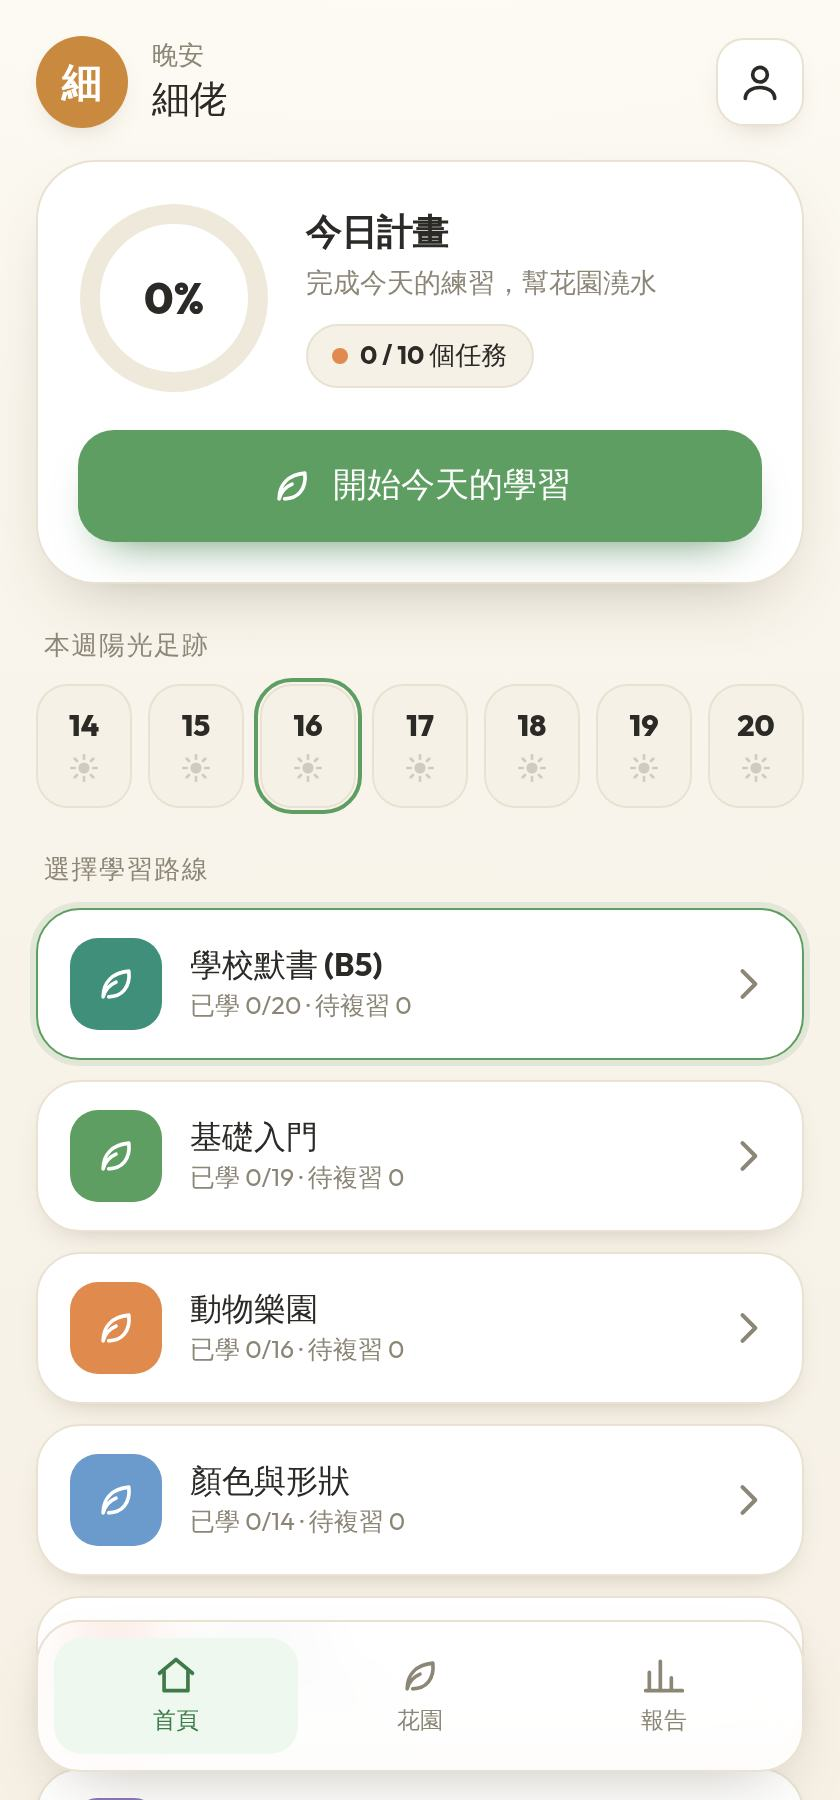
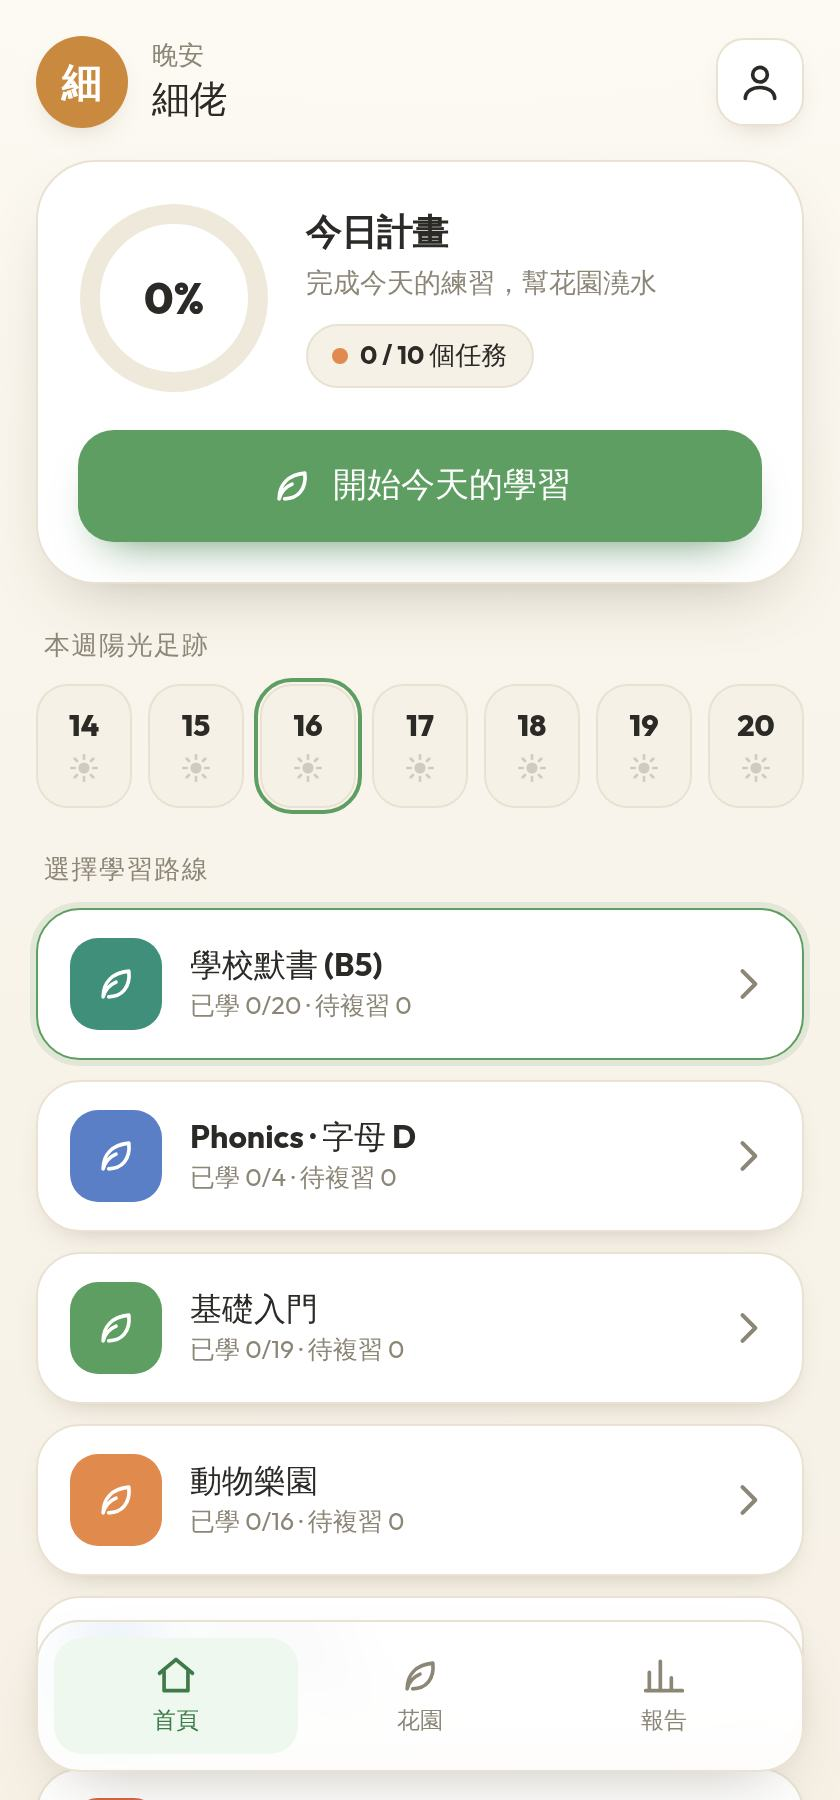
加入 B5 課本全系列: Phonics D/J/Z/L + Unit1-5 + 動物/城鎮/美食/地方 (共19路線) — SW v5

Changed region(s): [[0.0619, 0.5911, 0.4952, 0.7778], [0.0619, 0.8089, 0.4643, 0.8711], [0.0929, 0.9956, 0.1857, 1.0]]

diff --git a/js/data.js b/js/data.js
@@ -4,7 +4,7 @@
 export const DECKS = [
   {
     id: "school-b5",
-    name: "學校默書 (B5)",
+    name: "B5 默書清單",
     desc: "Spelling Check List · Unit 1–5",
     color: "#3f8f7a",
     words: [
@@ -30,10 +30,12 @@ export const DECKS = [
       { en: "knife", zh: "刀", pic: "🔪", ipa: "/naɪf/" }
     ]
   },
+
+  /* ---------- Phonics 字母 ---------- */
   {
     id: "phonics-d",
     name: "Phonics · 字母 D",
-    desc: "Phonics worksheet · D d",
+    desc: "D d — doctor / duck / doll / door",
     color: "#5b7fc7",
     words: [
       { en: "doctor", zh: "醫生", pic: "🧑⚕", ipa: "/ˈdɑːk.tɚ/" },
@@ -42,6 +44,162 @@ export const DECKS = [
       { en: "door", zh: "門", pic: "🚪", ipa: "/dɔːr/" }
     ]
   },
+  {
+    id: "phonics-j",
+    name: "Phonics · 字母 J",
+    desc: "J j — jellyfish / jacket / joker / jelly",
+    color: "#5b7fc7",
+    words: [
+      { en: "jellyfish", zh: "水母", pic: "🪼", ipa: "/ˈdʒel.i.fɪʃ/" },
+      { en: "jacket", zh: "外套", pic: "🧥", ipa: "/ˈdʒæk.ɪt/" },
+      { en: "joker", zh: "小丑", pic: "🃏", ipa: "/ˈdʒoʊ.kɚ/" },
+      { en: "jelly", zh: "啫喱", pic: "🍮", ipa: "/ˈdʒel.i/" }
+    ]
+  },
+  {
+    id: "phonics-z",
+    name: "Phonics · 字母 Z",
+    desc: "Z z — zero / zip / zigzag / zebra",
+    color: "#5b7fc7",
+    words: [
+      { en: "zero", zh: "零", pic: "0⃣", ipa: "/ˈzɪr.oʊ/" },
+      { en: "zip", zh: "拉鏈", pic: "🤐", ipa: "/zɪp/" },
+      { en: "zigzag", zh: "之字形", pic: "〰", ipa: "/ˈzɪɡ.zæɡ/" },
+      { en: "zebra", zh: "斑馬", pic: "🦓", ipa: "/ˈziː.brə/" }
+    ]
+  },
+  {
+    id: "phonics-l",
+    name: "Phonics · 字母 L",
+    desc: "L l — lemon / leaf / lamp / lip",
+    color: "#5b7fc7",
+    words: [
+      { en: "lemon", zh: "檸檬", pic: "🍋", ipa: "/ˈlem.ən/" },
+      { en: "leaf", zh: "葉", pic: "🍃", ipa: "/liːf/" },
+      { en: "lamp", zh: "燈", pic: "💡", ipa: "/læmp/" },
+      { en: "lip", zh: "嘴唇", pic: "👄", ipa: "/lɪp/" }
+    ]
+  },
+
+  /* ---------- B5 單元 ---------- */
+  {
+    id: "b5-u1",
+    name: "B5 Unit 1 · 文具",
+    desc: "School Stationery",
+    color: "#c98a3f",
+    words: [
+      { en: "eraser", zh: "擦膠", pic: "🧽", ipa: "/ɪˈreɪ.sɚ/" },
+      { en: "pencil", zh: "鉛筆", pic: "✏", ipa: "/ˈpen.səl/" },
+      { en: "crayons", zh: "蠟筆", pic: "🖍", ipa: "/ˈkreɪ.ɑːnz/" },
+      { en: "ruler", zh: "尺子", pic: "📏", ipa: "/ˈruː.lɚ/" }
+    ]
+  },
+  {
+    id: "b5-u2",
+    name: "B5 Unit 2 · 天氣",
+    desc: "Weather",
+    color: "#c98a3f",
+    words: [
+      { en: "dry", zh: "乾的", pic: "🏜", ipa: "/draɪ/" },
+      { en: "wet", zh: "濕的", pic: "💦", ipa: "/wet/" },
+      { en: "sky", zh: "天空", pic: "🌤", ipa: "/skaɪ/" }
+    ]
+  },
+  {
+    id: "b5-u3",
+    name: "B5 Unit 3 · 電子用品",
+    desc: "Electronics",
+    color: "#c98a3f",
+    words: [
+      { en: "computer", zh: "電腦", pic: "💻", ipa: "/kəmˈpjuː.t̬ɚ/" },
+      { en: "mobile", zh: "手提電話", pic: "📱", ipa: "/ˈmoʊ.bəl/" },
+      { en: "clock", zh: "時鐘", pic: "🕐", ipa: "/klɑːk/" }
+    ]
+  },
+  {
+    id: "b5-u4",
+    name: "B5 Unit 4 · 天氣",
+    desc: "Weather",
+    color: "#c98a3f",
+    words: [
+      { en: "cloudy", zh: "多雲", pic: "☁", ipa: "/ˈklaʊ.di/" },
+      { en: "windy", zh: "大風", pic: "🌬", ipa: "/ˈwɪn.di/" },
+      { en: "rainy", zh: "下雨", pic: "🌧", ipa: "/ˈreɪ.ni/" },
+      { en: "sunny", zh: "晴天", pic: "🌞", ipa: "/ˈsʌn.i/" }
+    ]
+  },
+  {
+    id: "b5-u5",
+    name: "B5 Unit 5 · 地方與學校",
+    desc: "Places & School",
+    color: "#c98a3f",
+    words: [
+      { en: "toilet", zh: "洗手間", pic: "🚻", ipa: "/ˈtɔɪ.lɪt/" },
+      { en: "shop", zh: "商店", pic: "🏪", ipa: "/ʃɑːp/" },
+      { en: "uniform", zh: "校服", pic: "👔", ipa: "/ˈjuː.nə.fɔːrm/" },
+      { en: "class", zh: "班房", pic: "🧑🎓", ipa: "/klæs/" }
+    ]
+  },
+  {
+    id: "b5-animals",
+    name: "B5 · 動物 Amazing Animals",
+    desc: "Unit 4 Amazing Animals",
+    color: "#3f8f7a",
+    words: [
+      { en: "crocodile", zh: "鱷魚", pic: "🐊", ipa: "/ˈkrɑː.kə.daɪl/" },
+      { en: "giraffe", zh: "長頸鹿", pic: "🦒", ipa: "/dʒəˈræf/" },
+      { en: "monkey", zh: "猴子", pic: "🐒", ipa: "/ˈmʌŋ.ki/" },
+      { en: "zebra", zh: "斑馬", pic: "🦓", ipa: "/ˈziː.brə/" },
+      { en: "elephant", zh: "大象", pic: "🐘", ipa: "/ˈel.ə.fənt/" },
+      { en: "lion", zh: "獅子", pic: "🦁", ipa: "/ˈlaɪ.ən/" }
+    ]
+  },
+  {
+    id: "b5-town",
+    name: "B5 · 城鎮 Going into Town",
+    desc: "Unit 5 Going into Town",
+    color: "#6a9bcc",
+    words: [
+      { en: "hospital", zh: "醫院", pic: "🏥", ipa: "/ˈhɑː.spɪ.t̬əl/" },
+      { en: "library", zh: "圖書館", pic: "📚", ipa: "/ˈlaɪ.brer.i/" },
+      { en: "park", zh: "公園", pic: "🏞", ipa: "/pɑːrk/" },
+      { en: "restaurant", zh: "餐廳", pic: "🍽", ipa: "/ˈres.tə.rɑːnt/" },
+      { en: "school", zh: "學校", pic: "🏫", ipa: "/skuːl/" },
+      { en: "supermarket", zh: "超級市場", pic: "🛒", ipa: "/ˈsuː.pɚ.mɑːr.kɪt/" }
+    ]
+  },
+  {
+    id: "b5-food",
+    name: "B5 · 世界美食 Food around the World",
+    desc: "It's a Fun World",
+    color: "#d9663f",
+    words: [
+      { en: "curry", zh: "咖喱", pic: "🍛", ipa: "/ˈkɝː.i/" },
+      { en: "sushi", zh: "壽司", pic: "🍣", ipa: "/ˈsuː.ʃi/" },
+      { en: "hamburger", zh: "漢堡", pic: "🍔", ipa: "/ˈhæm.bɝː.ɡɚ/" },
+      { en: "pizza", zh: "薄餅", pic: "🍕", ipa: "/ˈpiːt.sə/" },
+      { en: "taco", zh: "墨西哥卷", pic: "🌮", ipa: "/ˈtɑː.koʊ/" },
+      { en: "fish and chips", zh: "炸魚薯條", pic: "🐟🍟", ipa: "/ˌfɪʃ ən ˈtʃɪps/" },
+      { en: "fork", zh: "叉", pic: "🍴", ipa: "/fɔːrk/" },
+      { en: "knife", zh: "刀", pic: "🔪", ipa: "/naɪf/" },
+      { en: "spoon", zh: "匙羹", pic: "🥄", ipa: "/spuːn/" },
+      { en: "chopsticks", zh: "筷子", pic: "🥢", ipa: "/ˈtʃɑːp.stɪks/" }
+    ]
+  },
+  {
+    id: "b5-places",
+    name: "B5 · 地方 Macao & China",
+    desc: "It's a Fun World",
+    color: "#6a9bcc",
+    words: [
+      { en: "Macao", zh: "澳門", pic: "🇲🇴", ipa: "/məˈkaʊ/" },
+      { en: "China", zh: "中國", pic: "🇨🇳", ipa: "/ˈtʃaɪ.nə/" },
+      { en: "flag", zh: "旗", pic: "🚩", ipa: "/flæɡ/" },
+      { en: "map", zh: "地圖", pic: "🗺", ipa: "/mæp/" }
+    ]
+  },
+
+  /* ---------- 通用 ---------- */
   {
     id: "starter",
     name: "基礎入門",
@@ -80,7 +238,6 @@ export const DECKS = [
       { en: "duck", zh: "鴨", pic: "🦆", ipa: "/dʌk/" },
       { en: "frog", zh: "青蛙", pic: "🐸", ipa: "/frɔːɡ/" },
       { en: "horse", zh: "馬", pic: "🐴", ipa: "/hɔːrs/" },
-      { en: "monkey", zh: "猴子", pic: "🐒", ipa: "/ˈmʌŋ.ki/" },
       { en: "panda", zh: "熊貓", pic: "🐼", ipa: "/ˈpæn.də/" },
       { en: "pig", zh: "豬", pic: "🐷", ipa: "/pɪɡ/" },
       { en: "rabbit", zh: "兔子", pic: "🐰", ipa: "/ˈræb.ɪt/" },
@@ -89,7 +246,6 @@ export const DECKS = [
       { en: "tiger", zh: "老虎", pic: "🐯", ipa: "/ˈtaɪ.ɡɚ/" },
       { en: "turtle", zh: "烏龜", pic: "🐢", ipa: "/ˈtɝː.t̬əl/" },
       { en: "whale", zh: "鯨魚", pic: "🐳", ipa: "/weɪl/" },
-      { en: "zebra", zh: "斑馬", pic: "🦓", ipa: "/ˈziː.brə/" },
       { en: "bee", zh: "蜜蜂", pic: "🐝", ipa: "/biː/" }
     ]
   },
@@ -109,10 +265,8 @@ export const DECKS = [
       { en: "purple", zh: "紫色", pic: "🟪", ipa: "/ˈpɝː.pəl/" },
       { en: "circle", zh: "圓形", pic: "⭕", ipa: "/ˈsɝː.kəl/" },
       { en: "square", zh: "正方形", pic: "🔲", ipa: "/skwer/" },
-      { en: "star", zh: "星星", pic: "⭐", ipa: "/stɑːr/" },
       { en: "heart", zh: "心形", pic: "❤", ipa: "/hɑːrt/" },
-      { en: "line", zh: "線", pic: "➖", ipa: "/laɪn/" },
-      { en: "round", zh: "圓的", pic: "⚪", ipa: "/raʊnd/" }
+      { en: "line", zh: "線", pic: "➖", ipa: "/laɪn/" }
     ]
   },
   {
@@ -128,7 +282,6 @@ export const DECKS = [
       { en: "chicken", zh: "雞肉", pic: "🍗", ipa: "/ˈtʃɪk.ɪn/" },
       { en: "grape", zh: "葡萄", pic: "🍇", ipa: "/ɡreɪp/" },
       { en: "juice", zh: "果汁", pic: "🧃", ipa: "/dʒuːs/" },
-      { en: "lemon", zh: "檸檬", pic: "🍋", ipa: "/ˈlem.ən/" },
       { en: "peach", zh: "桃", pic: "🍑", ipa: "/piːtʃ/" },
       { en: "rice", zh: "飯", pic: "🍚", ipa: "/raɪs/" },
       { en: "soup", zh: "湯", pic: "🍲", ipa: "/suːp/" },
@@ -152,14 +305,11 @@ export const DECKS = [
       { en: "happy", zh: "開心", pic: "😄", ipa: "/ˈhæp.i/" },
       { en: "letter", zh: "字母 / 信", pic: "✉", ipa: "/ˈlet̬.ɚ/" },
       { en: "music", zh: "音樂", pic: "🎵", ipa: "/ˈmjuː.zɪk/" },
-      { en: "pencil", zh: "鉛筆", pic: "✏", ipa: "/ˈpen.səl/" },
       { en: "picture", zh: "圖畫", pic: "🖼", ipa: "/ˈpɪk.tʃɚ/" },
       { en: "read", zh: "閱讀", pic: "📖", ipa: "/riːd/" },
-      { en: "ruler", zh: "尺子", pic: "📏", ipa: "/ˈruː.lɚ/" },
       { en: "teacher", zh: "老師", pic: "👩🏫", ipa: "/ˈtiː.tʃɚ/" },
       { en: "write", zh: "寫", pic: "✍", ipa: "/raɪt/" },
-      { en: "number", zh: "數字", pic: "🔢", ipa: "/ˈnʌm.bɚ/" },
-      { en: "clock", zh: "時鐘", pic: "🕐", ipa: "/klɑːk/" }
+      { en: "number", zh: "數字", pic: "🔢", ipa: "/ˈnʌm.bɚ/" }
     ]
   }
 ];

diff --git a/js/app.js b/js/app.js
@@ -1,4 +1,4 @@
-import { DECKS, DECK_MAP, wordKey } from "./data.js";
+import { DECKS, DECK_MAP, allWords, wordKey } from "./data.js";
 import * as store from "./store.js";
 
 /* ================= 小工具 ================= */
@@ -15,6 +15,18 @@ const shuffle = (arr) => {
 const pick = (arr, n, exclude) => shuffle(arr.filter((x) => !exclude.includes(x))).slice(0, n);
 
 const WEEKDAYS = ["一", "二", "三", "四", "五", "六", "日"];
+
+// 選項水池：先本路線，唔夠 4 個就由全部字補充
+function distractorPool(deckId, key, exclude) {
+  const set = new Set((DECK_MAP[deckId]?.words || []).map((w) => w[key]).filter((v) => v && v !== exclude));
+  if (set.size < 3) {
+    for (const w of allWords()) {
+      if (w[key] && w[key] !== exclude) set.add(w[key]);
+      if (set.size >= 4) break;
+    }
+  }
+  return [...set];
+}
 
 let toastTimer = null;
 function toast(msg) {
@@ -288,7 +300,7 @@ function renderListen(item) {
     </button>
     <div class="q-prompt" style="margin-top:8px">再聽一次</div>`;
 
-  const others = pick(DECK_MAP[item.deckId].words.map((w) => w.en), 3, [item.en]);
+  const others = shuffle(distractorPool(item.deckId, "en", item.en)).slice(0, 3);
   const opts = shuffle([item.en, ...others]);
   $("#q-answer-area").innerHTML = `<div class="options">${opts
     .map((o) => `<button class="option" data-val="${escapeHtml(o)}">${escapeHtml(o)}</button>`)
@@ -316,7 +328,7 @@ function renderRecognize(item) {
     <div class="q-prompt" style="margin-top:8px">點字可聽發音</div>`;
   $("#q-speak").addEventListener("click", () => speak(item.en));
 
-  const others = pick(DECK_MAP[item.deckId].words.map((w) => w.zh), 3, [item.zh]);
+  const others = shuffle(distractorPool(item.deckId, "zh", item.zh)).slice(0, 3);
   const opts = shuffle([item.zh, ...others]);
   $("#q-answer-area").innerHTML = `<div class="options">${opts
     .map((o) => `<button class="option" data-val="${escapeHtml(o)}">${escapeHtml(o)}</button>`)

diff --git a/js/store.js b/js/store.js
@@ -142,6 +142,8 @@ export function buildSession(profile, deckId, limit) {
     let qType;
     if (!item.isReview) qType = i % 3 === 0 ? "recognize" : "listen";
     else qType = i % 2 === 0 ? "spell" : "listen";
+    // 多字詞（例如 fish and chips）唔可以拼字題
+    if (/\s/.test(item.w.en)) qType = "listen";
     return { ...item, qType };
   });
 }

diff --git a/sw.js b/sw.js
@@ -1,5 +1,5 @@
 // 離線快取 app shell（network-first，確保更新即時生效）
-const CACHE = "kvapp-v4";
+const CACHE = "kvapp-v5";
 const ASSETS = [
   "./",
   "./index.html",
